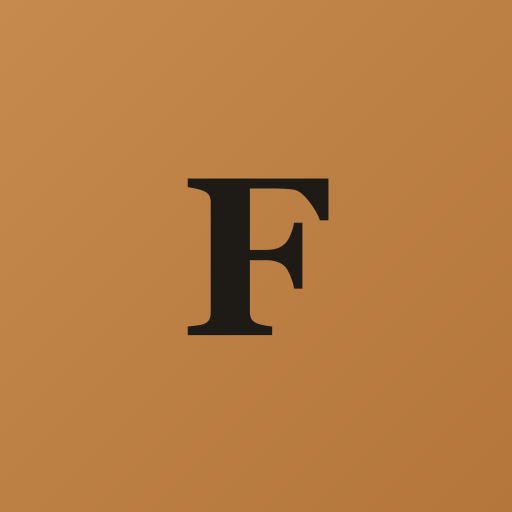
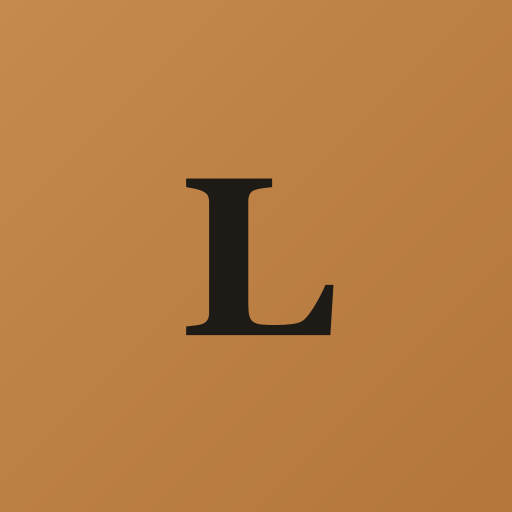
Rename app from FloorCraft to LayIt
FloorCraft turned out to collide too - both floorcraft.vercel.app and
Floor-Craft (the follow-up attempt) belong to unrelated existing
flooring products (an AI floorplan-design app, plus several decades-
old flooring retailers). Checked LayIt against both a web search and
its .vercel.app subdomain before committing this time - clean on both.

Renamed everywhere user-facing: page title, sign-in/job-list headers,
PWA manifest, favicon + all 4 raster icons (new "L" mark), roll-goods
export text, package.json, plus internal comments.

diff --git a/src/App.jsx b/src/App.jsx
@@ -35,7 +35,7 @@ function SignInScreen() {
         fontFamily: "Space Grotesk", fontWeight: 700, fontSize: 34, textAlign: "center", margin: "0 0 28px",
         color: COLORS.accentText,
       }}>
-        FloorCraft
+        LayIt
       </h1>
       <section style={{ background: COLORS.panel, border: `1px solid ${COLORS.border}`, borderRadius: 12, padding: 24 }}>
         <div style={{ fontFamily: "JetBrains Mono", fontSize: 11, fontWeight: 600, color: COLORS.sub, textTransform: "uppercase", letterSpacing: "0.04em", margin: "0 0 14px" }}>Sign in</div>
@@ -155,7 +155,7 @@ function JobList({ user, onOpenJob }) {
       <div style={{ display: "flex", justifyContent: "space-between", alignItems: "center", marginBottom: 8 }}>
         <div>
           <h1 style={{ fontFamily: "Space Grotesk", fontWeight: 700, fontSize: 34, color: COLORS.accentText, margin: 0 }}>
-            FloorCraft
+            LayIt
           </h1>
           {onContractorPlan && (
             <div style={{ fontFamily: "Space Grotesk", fontWeight: 700, fontSize: 15, color: COLORS.accentText, marginTop: -4 }}>

diff --git a/vite.config.js b/vite.config.js
@@ -2,7 +2,7 @@ import { defineConfig } from "vite";
 import react from "@vitejs/plugin-react";
 import { VitePWA } from "vite-plugin-pwa";
 
-// FloorCraft — PWA build config. installable, offline-capable for
+// LayIt — PWA build config. installable, offline-capable for
 // viewing already-loaded jobs. Real network calls (Supabase, Stripe) still
 // need connectivity; the service worker only caches app shell + assets.
 export default defineConfig({
@@ -12,8 +12,8 @@ export default defineConfig({
       registerType: "autoUpdate",
       includeAssets: ["favicon.svg", "apple-touch-icon.png"],
       manifest: {
-        name: "FloorCraft",
-        short_name: "FloorCraft",
+        name: "LayIt",
+        short_name: "LayIt",
         description: "Flooring and ceiling cut planner for contractors",
         theme_color: "#C68A4E",
         background_color: "#EEEDE8",

diff --git a/src/components/RollGoodsResults.jsx b/src/components/RollGoodsResults.jsx
@@ -8,7 +8,7 @@ export function RollGoodsResults({ sectionResults, rollTotals, unit, pieceLabel,
 
   const buildRollText = () => {
     const lines = [];
-    lines.push(`FloorCraft — Roll goods plan${materialName ? ` (${materialName})` : ""}`);
+    lines.push(`LayIt — Roll goods plan${materialName ? ` (${materialName})` : ""}`);
     lines.push(`Total roll length needed: ${rollTotals.totalLength.toFixed(1)}${unit} · with ${bufNum}% buffer: ${rollTotals.bufferedLength.toFixed(1)}${unit}`);
     lines.push(`Area to order (with buffer): ${rollTotals.bufferedAreaStd.toFixed(1)} ${rollTotals.areaUnitLabel}`);
     if (rollEstimatedCost !== null) lines.push(`Estimated cost: ${rollEstimatedCost.toFixed(2)}`);

diff --git a/src/lib/layoutEngine.js b/src/lib/layoutEngine.js
@@ -1,4 +1,4 @@
-// layoutEngine.js — the verified calculation core of FloorCraft.
+// layoutEngine.js — the verified calculation core of LayIt.
 // Pure functions only: no DOM, no React, no browser APIs. Every algorithm
 // here was numerically verified (exact area conservation, zero overlap)
 // against hand-built test cases before being trusted — see the project

diff --git a/index.html b/index.html
@@ -7,7 +7,7 @@
     <link rel="icon" type="image/svg+xml" href="/favicon.svg" />
     <link rel="apple-touch-icon" href="/apple-touch-icon.png" />
     <link rel="manifest" href="/manifest.webmanifest" />
-    <title>FloorCraft</title>
+    <title>LayIt</title>
   </head>
   <body>
     <div id="root"></div>

diff --git a/README.md b/README.md
@@ -1,4 +1,4 @@
-# FloorCraft
+# LayIt
 
 Real-app port of the flooring/ceiling cut planner. This README is written
 for whoever picks this up next — possibly a future me, possibly a
